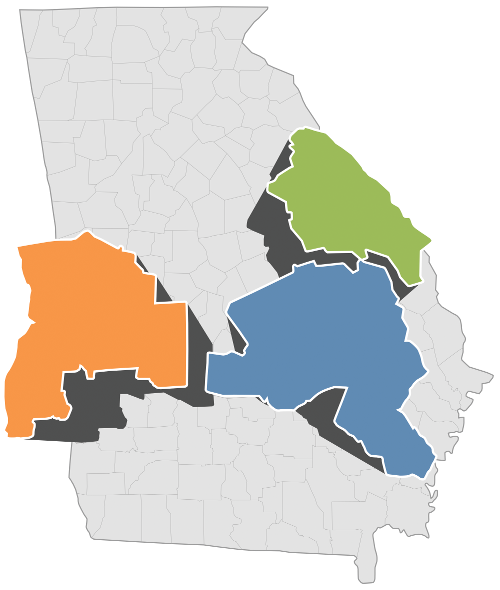
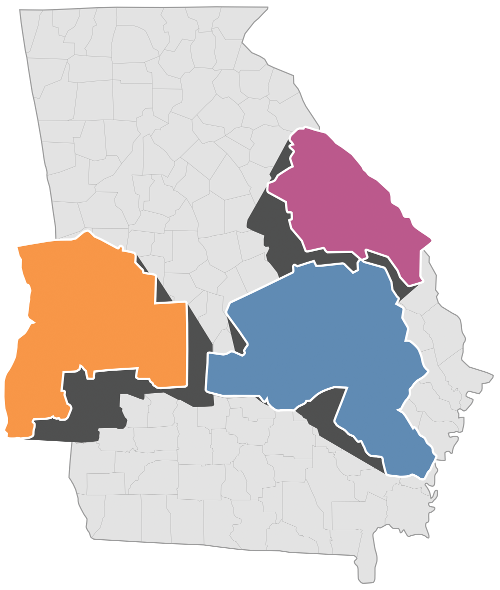
State image size & color change
Resolved #18
Resolved #20

State map is smaller on the home page and the CSRA region is purple on
the home, project, and CSRA project pages.

Changed region(s): [[0.54, 0.2136, 0.87, 0.4881]]

diff --git a/GDOT-TIA-Mockup/GDOT-TIA-Mockup/Content/site.css b/GDOT-TIA-Mockup/GDOT-TIA-Mockup/Content/site.css
@@ -40,7 +40,7 @@ h1, h2, h3, h4, h5, h6 {
 }
 
 .csra {
-	color: #9bbb59;
+	color: #B3608B;
 }
 
 .hoga {
@@ -69,12 +69,12 @@ h1, h2, h3, h4, h5, h6 {
 }
 
 .panel-csra > .panel-heading {
-  background-image: -webkit-linear-gradient(top, #9bbb59 0%, #d0e9c6 100%);
-  background-image: -o-linear-gradient(top, #9bbb59 0%, #d0e9c6 100%);
-  background-image: -webkit-gradient(linear, left top, left bottom, from(#9bbb59), to(#d0e9c6));
-  background-image: linear-gradient(to bottom, #9bbb59 0%, #d0e9c6 100%);
+  background-image: -webkit-linear-gradient(top, #B3608B 0%, #ffddef 100%);
+  background-image: -o-linear-gradient(top, #B3608B 0%, #ffddef 100%);
+  background-image: -webkit-gradient(linear, left top, left bottom, from(#B3608B), to(#ffddef));
+  background-image: linear-gradient(to bottom, #B3608B 0%, #ffddef 100%);
   background-repeat: repeat-x;
-  filter: progid:DXImageTransform.Microsoft.gradient(startColorstr='#9bbb59', endColorstr='#ffd0e9c6', GradientType=0);
+  filter: progid:DXImageTransform.Microsoft.gradient(startColorstr='#B3608B', endColorstr='#ffB3608B', GradientType=0);
 }
 .panel-hoga > .panel-heading {
   background-image: -webkit-linear-gradient(top, #608bb4 0%, #c4e3f3 100%);
@@ -93,21 +93,21 @@ h1, h2, h3, h4, h5, h6 {
   filter: progid:DXImageTransform.Microsoft.gradient(startColorstr='#fffcf8e3', endColorstr='#fffaf2cc', GradientType=0);
 }
 .panel-csra {
-  border-color: #9bbb59;
+  border-color: #B3608B;
 }
 .panel-csra > .panel-heading {
-  background-color: #9bbb59;
-  border-color: #9bbb59;
+  background-color: #B3608B;
+  border-color: #B3608B;
 }
 .panel-csra > .panel-heading + .panel-collapse > .panel-body {
-  border-top-color: #9bbb59;
+  border-top-color: #B3608B;
 }
 .panel-csra > .panel-heading .badge {
   color: #FFFFFF;
-  background-color: #9bbb59;
+  background-color: #B3608B;
 }
 .panel-csra > .panel-footer + .panel-collapse > .panel-body {
-  border-bottom-color: #9bbb59;
+  border-bottom-color: #B3608B;
 }
 .panel-hoga {
   border-color: #608bb4;
